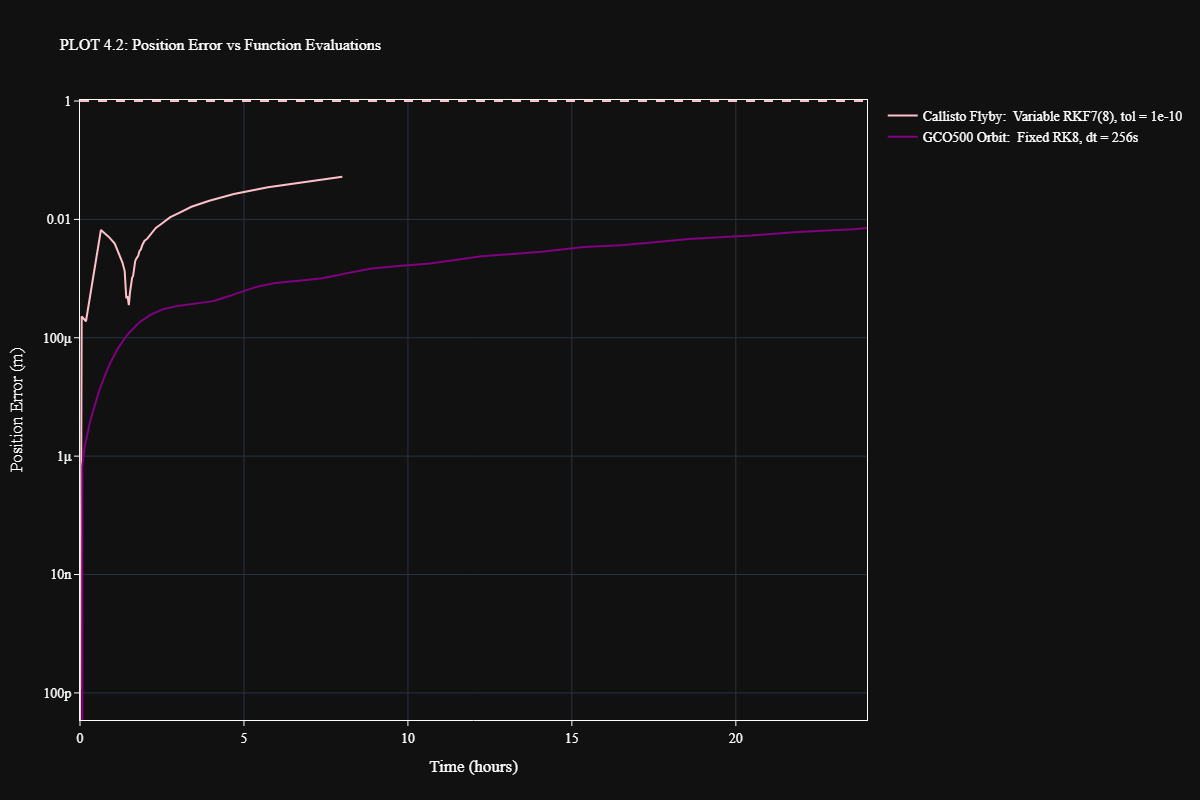
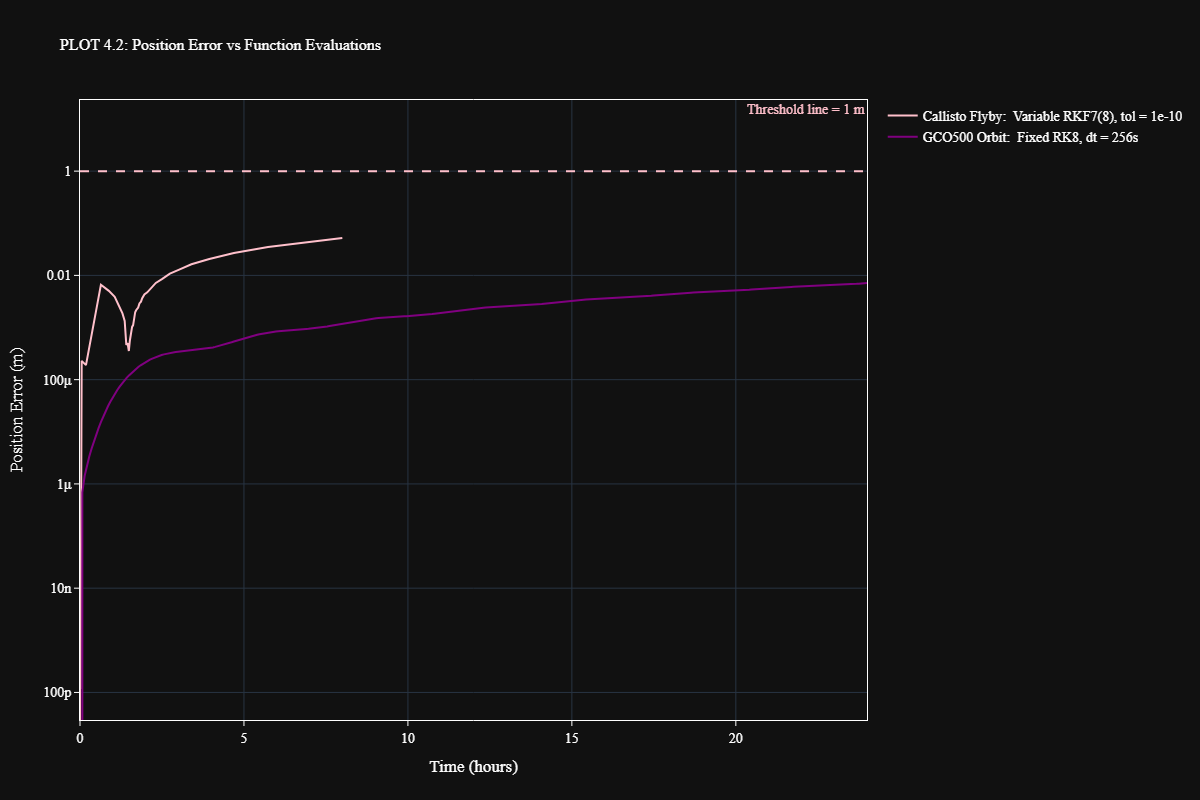
changed

diff --git a/Assignment3/integrator_analysis_Q4.py b/Assignment3/integrator_analysis_Q4.py
@@ -271,20 +271,10 @@ for current_phase in range(len(central_bodies_per_phase)):
         name=chosen_name
     ))
 
-    fig.add_annotation(
-        x=1,  # right side of plot (in paper coords)
-        y=1.0,
-        xref="paper",
-        yref="y",
-        text="Threshold line = 1 m",
-        showarrow=False,
-        font=dict(color="pink"),
-        xanchor="right",
-        yanchor="bottom"
-    )
 
+    fig.add_hline(y=1.0, line_dash='dash', line_color='pink')
     fig.add_annotation(
-        x=1,  # right side of plot (in paper coords)
+        x=1,
         y=1.0,
         xref="paper",
         yref="y",
@@ -397,6 +387,7 @@ fig.add_trace(go.Scatter(x=rk8_times, y=rk8_errors, mode="lines",
                           line=dict(color='purple'),
                           name='GCO500 Orbit:  Fixed RK8, dt = 256s'))
 
+fig.add_hline(y=1.0, line_dash='dash', line_color='pink')
 fig.add_annotation(
     x=1,  # right side of plot (in paper coords)
     y=1.0,
@@ -408,6 +399,7 @@ fig.add_annotation(
     xanchor="right",
     yanchor="bottom"
 )
+
 fig.update_layout(
 title = f'PLOT 4.2: Position Error vs Function Evaluations',
 
